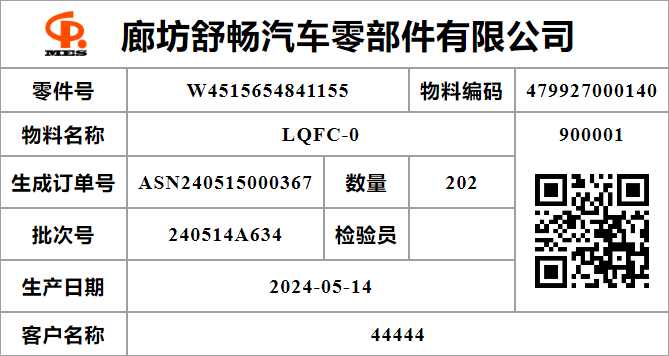
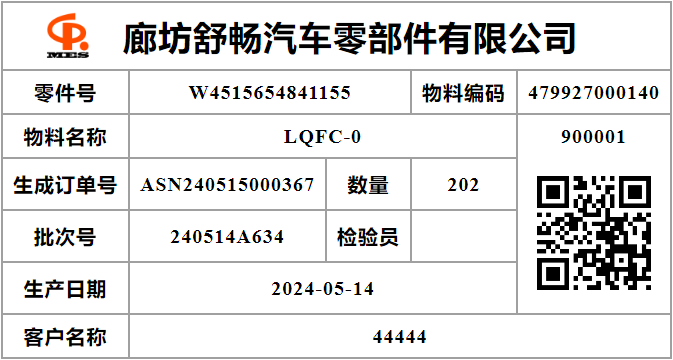
截图优化

diff --git a/templates/result.html b/templates/result.html
@@ -14,6 +14,7 @@
       border-collapse: collapse;
       border: 2px solid rgb(140 140 140);
       letter-spacing: 1px;
+      margin: 1px;
     }
 
     thead,

diff --git a/templates/template.html b/templates/template.html
@@ -14,6 +14,7 @@
       border-collapse: collapse;
       border: 2px solid rgb(140 140 140);
       letter-spacing: 1px;
+      margin: 1px;
     }
 
     thead,

diff --git a/src/main.rs b/src/main.rs
@@ -56,10 +56,10 @@ async fn create_label() -> impl Responder {
     let code = QrCode::new(r"qr_code.as_bytes()").unwrap();
     let image = code.render::<Luma<u8>>().build();
     image.save("./templates/qr.png").unwrap();
-    let mut result = File::create("./templates/result.html").unwrap();
     let product = Product {
         name: "ss".to_string(),
     };
+    let mut result = File::create("./templates/result.html").unwrap();
     TEMPLATES
         .render_to(
             "template.html",
@@ -67,34 +67,29 @@ async fn create_label() -> impl Responder {
             &mut result,
         )
         .unwrap();
-    let file = NamedFile::open("./templates/result.html").unwrap();
-    info!("2");
-
-    info!("3");
     let tab = CTAB.clone();
-    info!("4");
+    info!("2");
     let current_dir = env::current_dir().unwrap();
     let file_path = current_dir.join("templates/result.html");
-    tab.navigate_to(&format!("file:///{}", file_path.display()))
+    let viewport = tab
+        .navigate_to(&format!("file:///{}", file_path.display()))
+        .unwrap()
+        .wait_for_element("table")
+        .unwrap()
+        .get_box_model()
+        .unwrap()
+        .margin_viewport();
+    let jpeg_data = tab
+        .capture_screenshot(
+            Page::CaptureScreenshotFormatOption::Png,
+            Some(75),
+            Some(viewport),
+            true,
+        )
         .unwrap();
-    info!("5");
-    let elem = tab.find_element("table").unwrap();
-    info!("6");
-    // let jpeg_data = tab
-    //     .capture_screenshot(
-    //         Page::CaptureScreenshotFormatOption::Jpeg,
-    //         None,
-    //         Some(elem.get_box_model().unwrap().content_viewport()),
-    //         true,
-    //     )
-    //     .unwrap();
-    let jpeg_data = elem
-        .capture_screenshot(Page::CaptureScreenshotFormatOption::Png)
-        .unwrap();
-    // Save the screenshot to disc
-    info!("7");
+    info!("3");
     std::fs::write("screenshot.png", jpeg_data).unwrap();
-    file
+    NamedFile::open("screenshot.png").unwrap()
 }
 
 #[actix_web::main] // or #[tokio::main]
